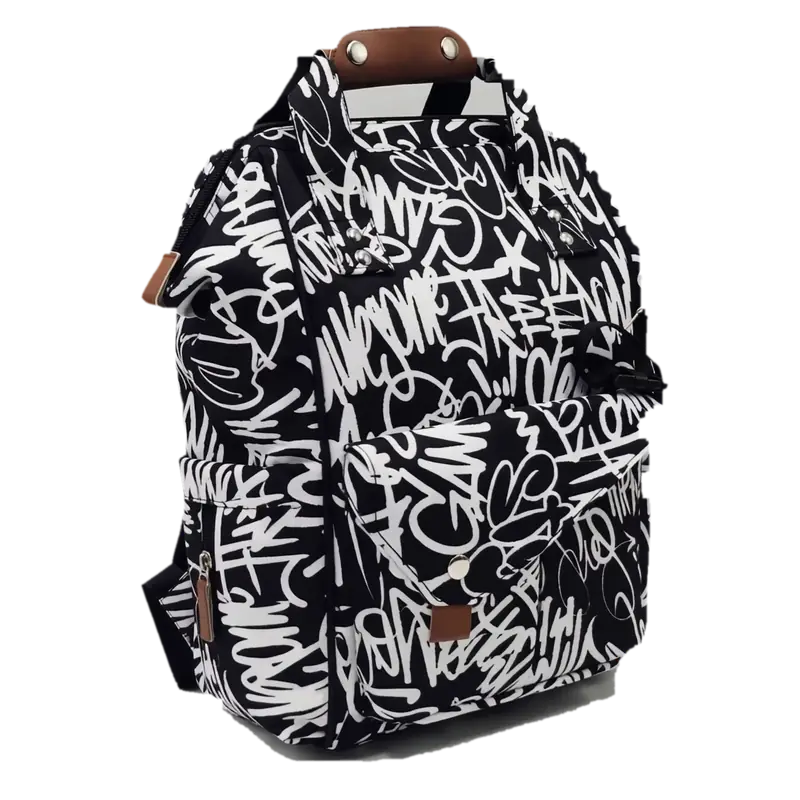
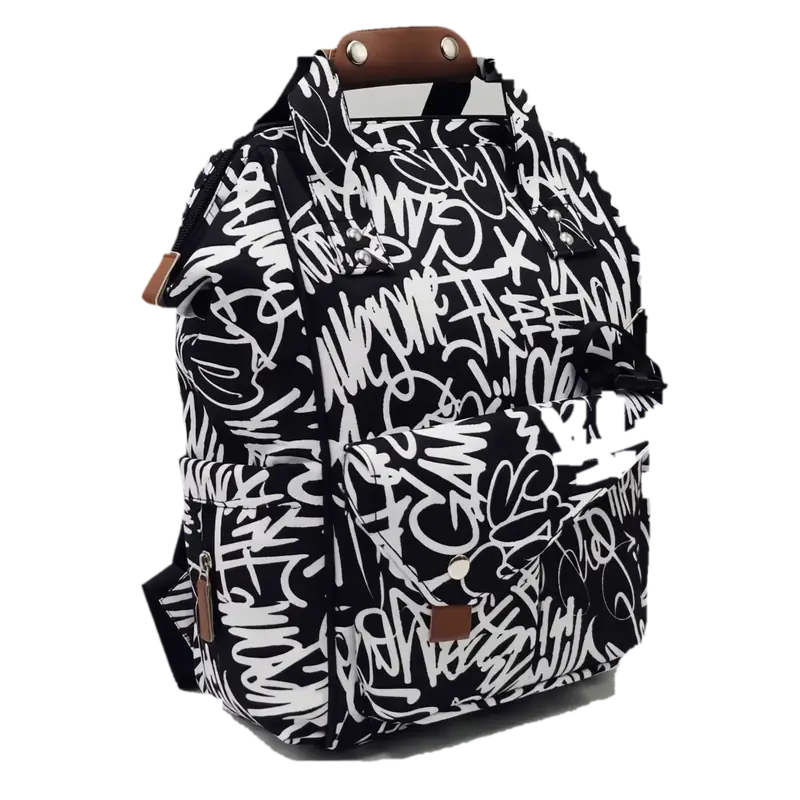
Document why the strap-gap white cannot be keyed out in post
Tried to make the see-through gap between the shoulder strap and the body
transparent. It cannot be done reliably from these frames, and the attempt
punched a hole through the front panel's print, so it is disabled with the
measurements recorded in the constant.

Both the strap gap and the graffiti tags are enclosed islands of
near-backdrop colour, and neither of the two obvious discriminators works:

  brightness — the white ink measures luminance 209 against a 214 backdrop,
               so any luma key eats the tags along with the gap
  area       — the front panel's largest tag blobs are 6.2% of frame, LARGER
               than the side strap gap at 1.5%, so the threshold is inverted
               and no cutoff separates them

The real fix is upstream: re-render the turntable against a colour the print
does not contain, which makes the key exact instead of a guess.

Changed region(s): [[0.6562, 0.4688, 0.8125, 0.625]]

diff --git a/tools/orbit_pipeline.py b/tools/orbit_pipeline.py
@@ -34,6 +34,25 @@ from PIL import Image
 from scipy import ndimage
 
 LEAK_SEAL = 3         # backdrop erosion that seals fill-leak channels
+SEE_THROUGH_FRAC = 9.99   # DISABLED, see note below. Was 0.011.
+                      # The strap gap and the graffiti tags are BOTH enclosed
+                      # islands of near-backdrop colour, and neither area nor
+                      # brightness separates them: measured, the white ink sits
+                      # at luminance 209 against a 214 backdrop, and the front
+                      # panel's largest tag blobs (6.2% of frame) are bigger
+                      # than the side strap gap (1.5%). Thresholding either way
+                      # punches a hole straight through the print. Fixing this
+                      # properly means re-rendering the turntable against a
+                      # colour the print does not contain, not post-processing.
+                      # OLD:  # an enclosed backdrop-coloured region larger than this
+                      # share of the frame is a gap you are meant to see the page
+                      # through, not a graffiti tag. Empirical: across the turn the
+                      # tags top out near 1.0% and the real gaps between the straps
+                      # and the body start at 1.28%. Brightness cannot make this
+                      # call — the white ink measures luminance 209 against a 214
+                      # backdrop, so any luma key punches holes through the print.
+HOLE_AREA_FRAC = 0.0025  # above this share of the frame, a bridged region is
+                      # real see-through negative space, not a notch to fill
 CLOSE_ITERS = 10      # bridge radius for the matte
 ERODE_ITERS = 6       # pull the matte back inside the true edge
                       # Both tuned by eye on frames 0/66/113. The erosion is the
@@ -91,6 +110,20 @@ def silhouette(rgb, opening=0):
     edge = np.unique(np.concatenate([lab[0], lab[-1], lab[:, 0], lab[:, -1]]))
     edge = edge[edge != 0]
     bg = np.isin(lab, edge)
+
+    # Backdrop that is enclosed by the product is normally kept — that is what
+    # protects the white tags, which are islands of near-backdrop colour ringed
+    # by black canvas. But the gap between a shoulder strap and the body is also
+    # enclosed in 2D, and that one really is a hole. Size tells them apart.
+    enclosed = near & ~bg
+    elab, en = ndimage.label(enclosed)
+    if en:
+        eareas = ndimage.sum(enclosed, elab, range(1, en + 1))
+        elimit = SEE_THROUGH_FRAC * h * w
+        for i, a in enumerate(eareas, start=1):
+            if a > elimit:
+                bg |= (elab == i)
+
     subj = ~bg
 
     # Sever thin attachments before picking the main blob. The render paints a
@@ -112,11 +145,29 @@ def silhouette(rgb, opening=0):
         # A wide closing, then fill. The white graffiti tags that run right to
         # the silhouette edge are the same value as the backdrop and touch it,
         # so the fill bites notches into the outline and the product reads as a
-        # bad cutout. Bridging at this radius removes the comb while leaving the
-        # real concavities — the gap under the handle, the strap gaps — intact.
+        # bad cutout. Bridging at this radius removes the comb.
+        before = subj.copy()
         subj = ndimage.binary_fill_holes(subj)
         subj = ndimage.binary_closing(subj, np.ones((3, 3)), iterations=CLOSE_ITERS)
         subj = ndimage.binary_fill_holes(subj)
+
+        # Give back the real negative space. That closing cannot tell the
+        # difference between a notch a few pixels wide chewed out of the
+        # outline, and the genuine gap you see through between the shoulder
+        # straps and the body of the bag — it bridges both, and the fill then
+        # makes them solid white. So look at everything the morphology just
+        # claimed from the backdrop and keep only the small claims: a notch is
+        # tiny, a see-through gap is not. Anything larger than the threshold is
+        # a hole you are meant to see the page through.
+        claimed = subj & ~before
+        clab, cn = ndimage.label(claimed)
+        if cn:
+            areas = ndimage.sum(claimed, clab, range(1, cn + 1))
+            limit = HOLE_AREA_FRAC * rgb.shape[0] * rgb.shape[1]
+            for i, a in enumerate(areas, start=1):
+                if a > limit:
+                    subj[clab == i] = False
+
         subj = ndimage.binary_erosion(subj, np.ones((3, 3)), iterations=ERODE_ITERS)
     return subj
 
